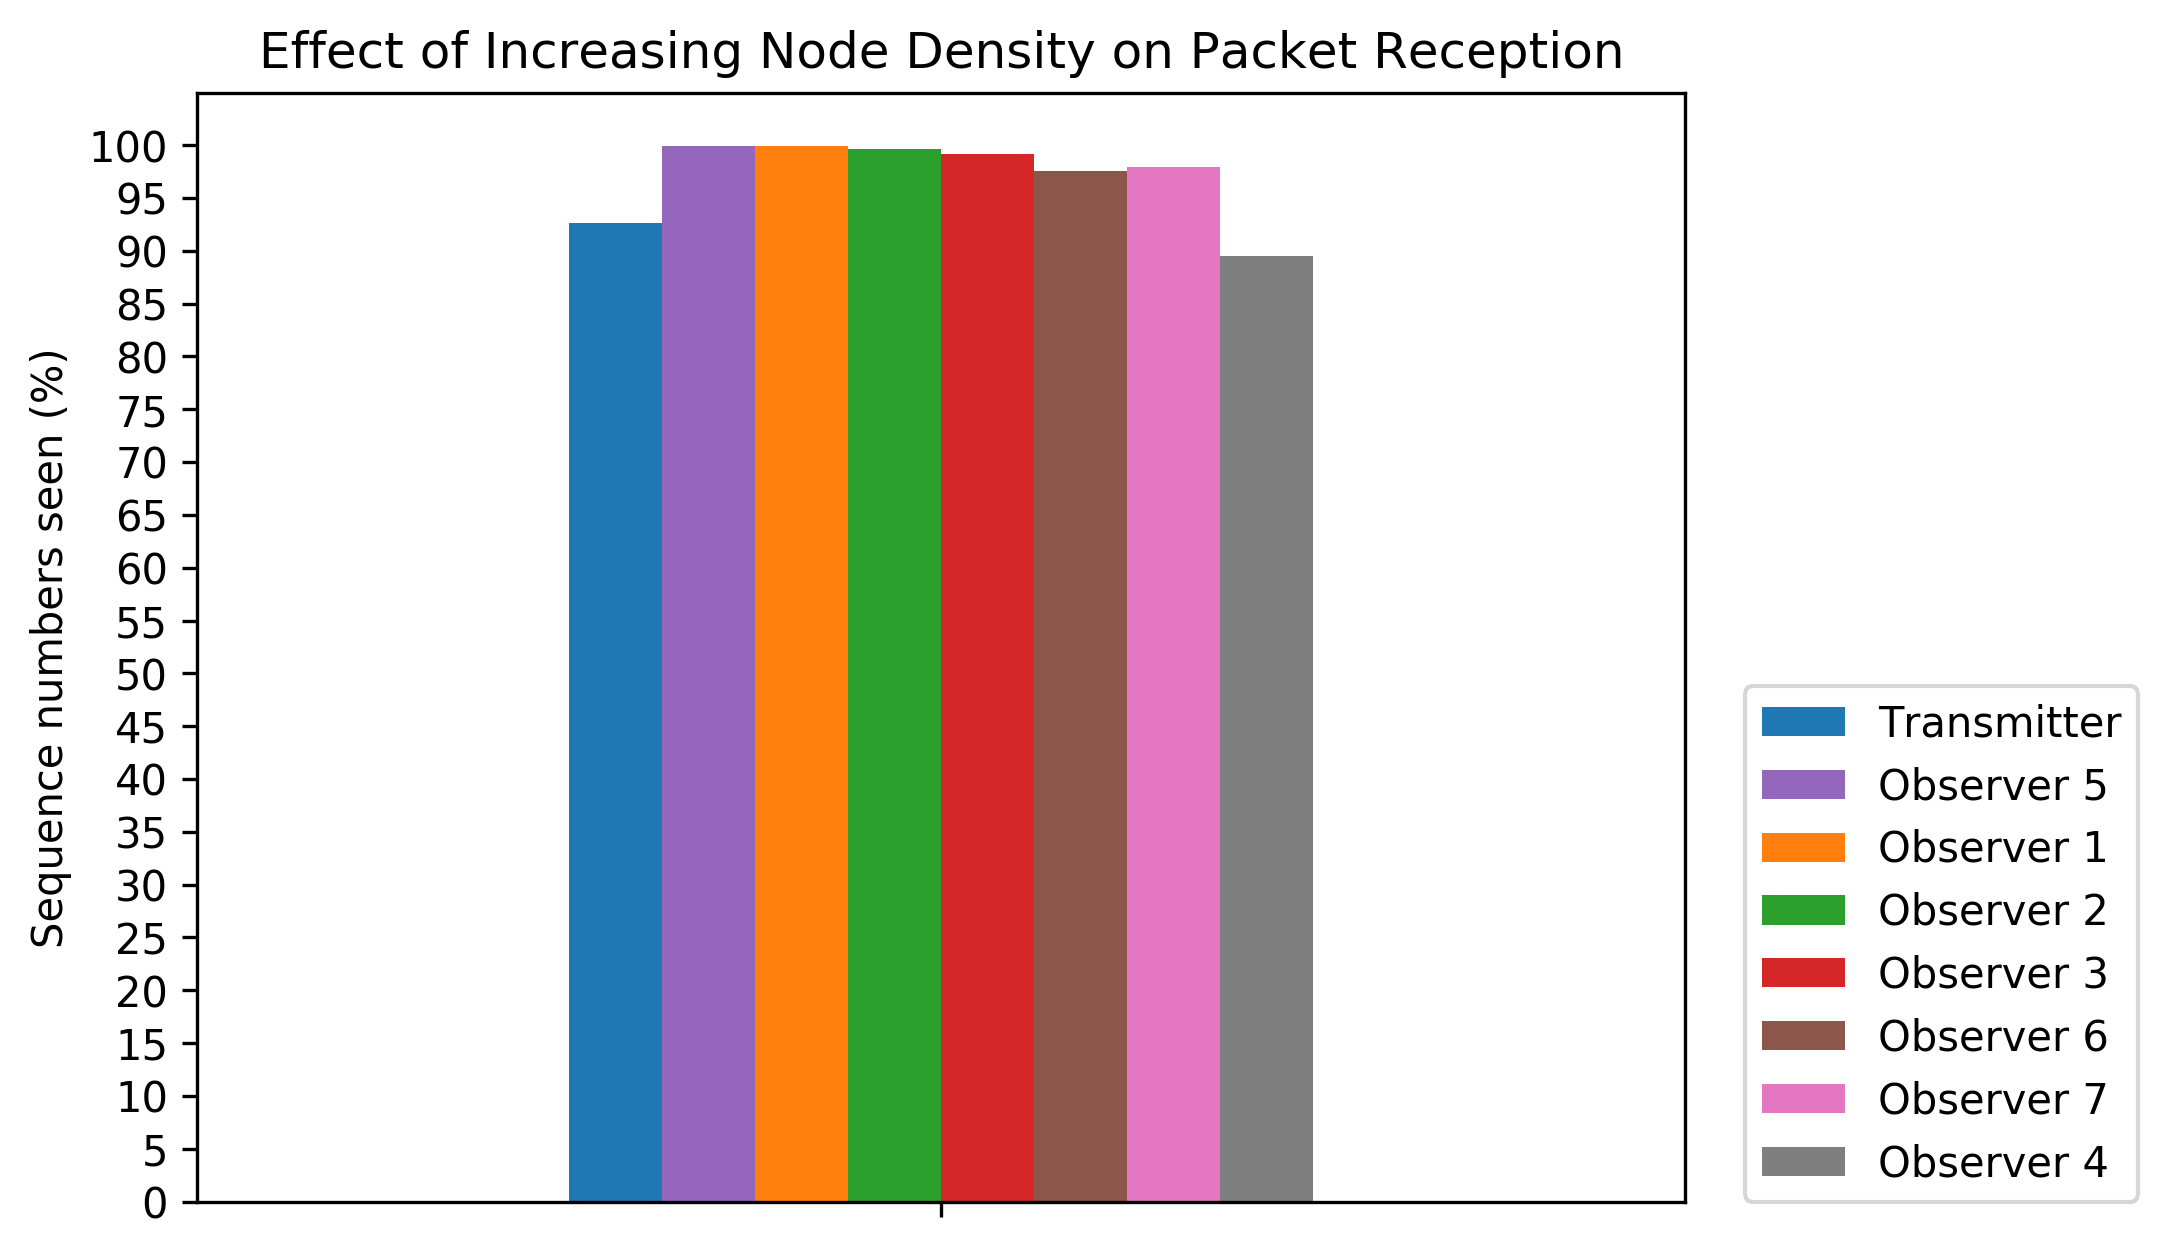
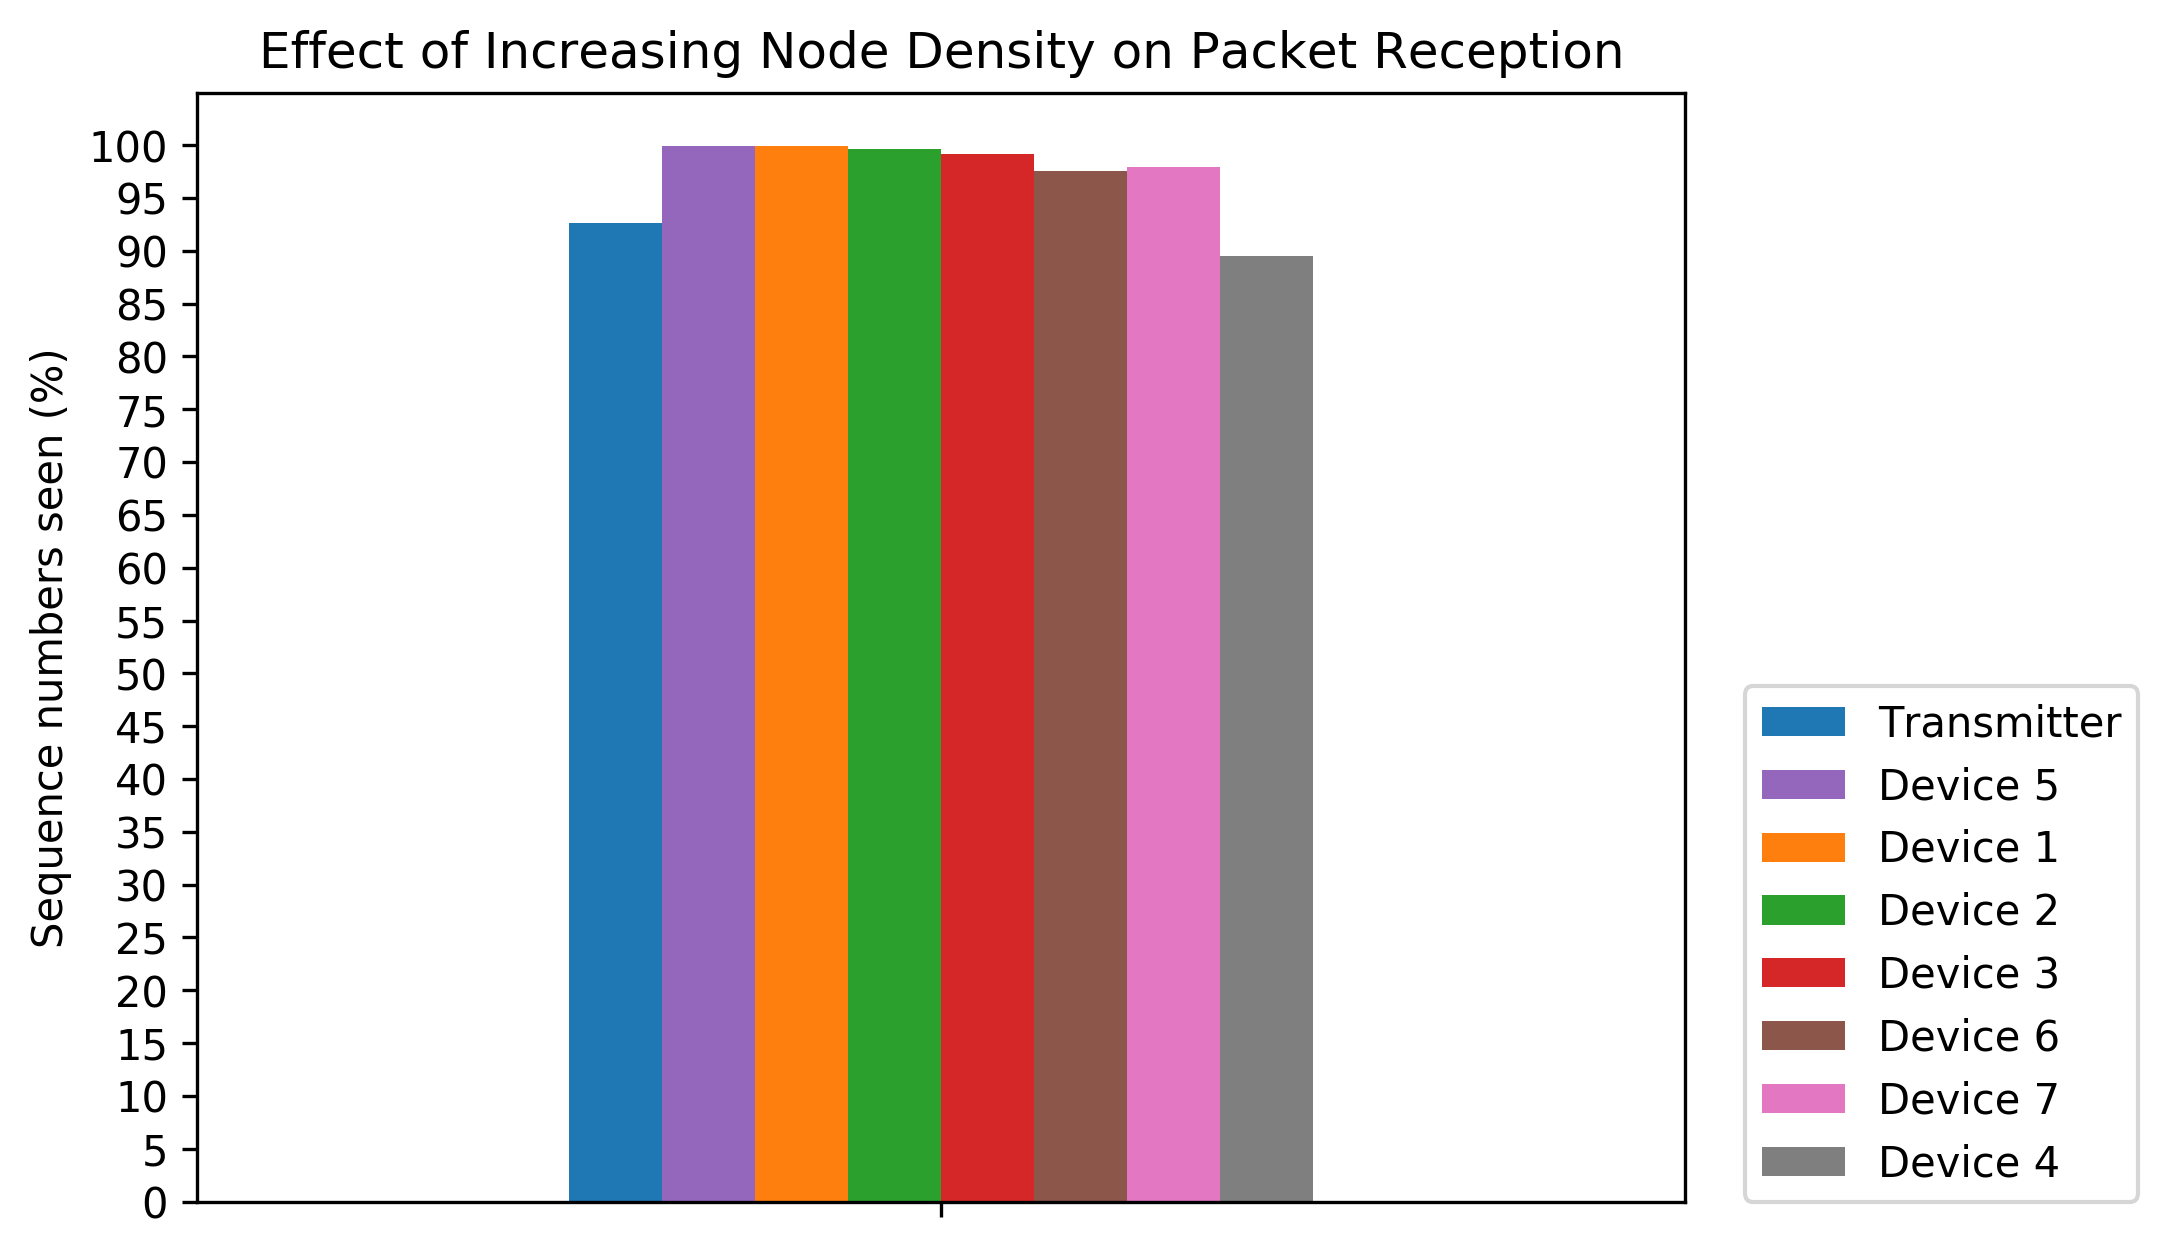
update bar script

Changed region(s): [[0.8653, 0.7136, 0.9889, 0.8377], [0.8653, 0.8687, 0.9889, 0.9618], [0.8653, 0.6205, 0.958, 0.6826]]

diff --git a/results/bar_graph.py b/results/bar_graph.py
@@ -97,7 +97,7 @@ mapping = {
     "16" : {
         "x_axis":[
             "Number of hops",
-            "Number of hops"
+            "Maximum number of hops"
         ],
         "y_axis":[
             "Packets seen",
@@ -122,22 +122,22 @@ mapping = {
         },
         "label_map" : {
             "test1":"0",
-            "test2":"0-1",
-            "test3":"1-2",
+            "test2":"~1",
+            "test3":"~2",
             "test4":"2",
         },
         "device_name_map" : {
             "transmitter":"Transmitter",
-            "observer[1]":"Observer 1",
-            "observer[2]":"Observer 2",
-            "observer[3]":"Observer 3",
-            "observer[5]":"Observer 4",
-            "observer[6]":"Observer 5",
-            "observer[7]":"Observer 6",
-            "observer[8]":"Observer 7",
+            "observer[1]":"Device 1",
+            "observer[2]":"Device 2",
+            "observer[3]":"Device 3",
+            "observer[5]":"Device 4",
+            "observer[6]":"Device 5",
+            "observer[7]":"Device 6",
+            "observer[8]":"Device 7",
         },
         "color_map":["#1f77b4","#ff7f0e",'#2ca02c', '#d62728', '#7f7f7f'],
-        'sort_list' : ["Transmitter", "Observer 1", "Observer 2", "Observer 3", "Observer 4"]
+        'sort_list' : ["Transmitter", "Device 1", "Device 2", "Device 3", "Device 4"]
     },
     "17" : {
         "x_axis":[
@@ -170,15 +170,15 @@ mapping = {
         },
         "device_name_map" : {
             "transmitter":"Transmitter",
-            "observer[1]":"Observer 1",
-            "observer[2]":"Observer 2",
-            "observer[3]":"Observer 3",
-            "observer[5]":"Observer 4",
-            "observer[6]":"Observer 5",
-            "observer[7]":"Observer 6",
-            "observer[8]":"Observer 7",
+            "observer[1]":"Device 1",
+            "observer[2]":"Device 2",
+            "observer[3]":"Device 3",
+            "observer[5]":"Device 4",
+            "observer[6]":"Device 5",
+            "observer[7]":"Device 6",
+            "observer[8]":"Device 7",
         },
-        "sort_list" : ["Transmitter", "Observer 5", "Observer 1", "Observer 2", "Observer 3", "Observer 6", "Observer 7", "Observer 4"],
+        "sort_list" : ["Transmitter", "Device 5", "Device 1", "Device 2", "Device 3", "Device 6", "Device 7", "Device 4"],
         "color_map": ["#1f77b4", '#9467bd',"#ff7f0e",'#2ca02c', '#d62728', '#8c564b', '#e377c2', '#7f7f7f']
     },
     "18" : {
@@ -212,16 +212,16 @@ mapping = {
         },
         "device_name_map" : {
             "transmitter":"Transmitter",
-            "observer[1]":"Observer 1",
-            "observer[2]":"Observer 2",
-            "observer[3]":"Observer 3",
-            "observer[5]":"Observer 4",
-            "observer[6]":"Observer 5",
-            "observer[7]":"Observer 6",
-            "observer[8]":"Observer 7",
+            "observer[1]":"Device 1",
+            "observer[2]":"Device 2",
+            "observer[3]":"Device 3",
+            "observer[5]":"Device 4",
+            "observer[6]":"Device 5",
+            "observer[7]":"Device 6",
+            "observer[8]":"Device 7",
         },
         "color_map":["#1f77b4","#ff7f0e",'#2ca02c', '#d62728', '#7f7f7f'],
-        'sort_list' : ["Transmitter", "Observer 1", "Observer 2", "Observer 3", "Observer 4"]
+        'sort_list' : ["Transmitter", "Device 1", "Device 2", "Device 3", "Device 4"]
     }
 }
 
